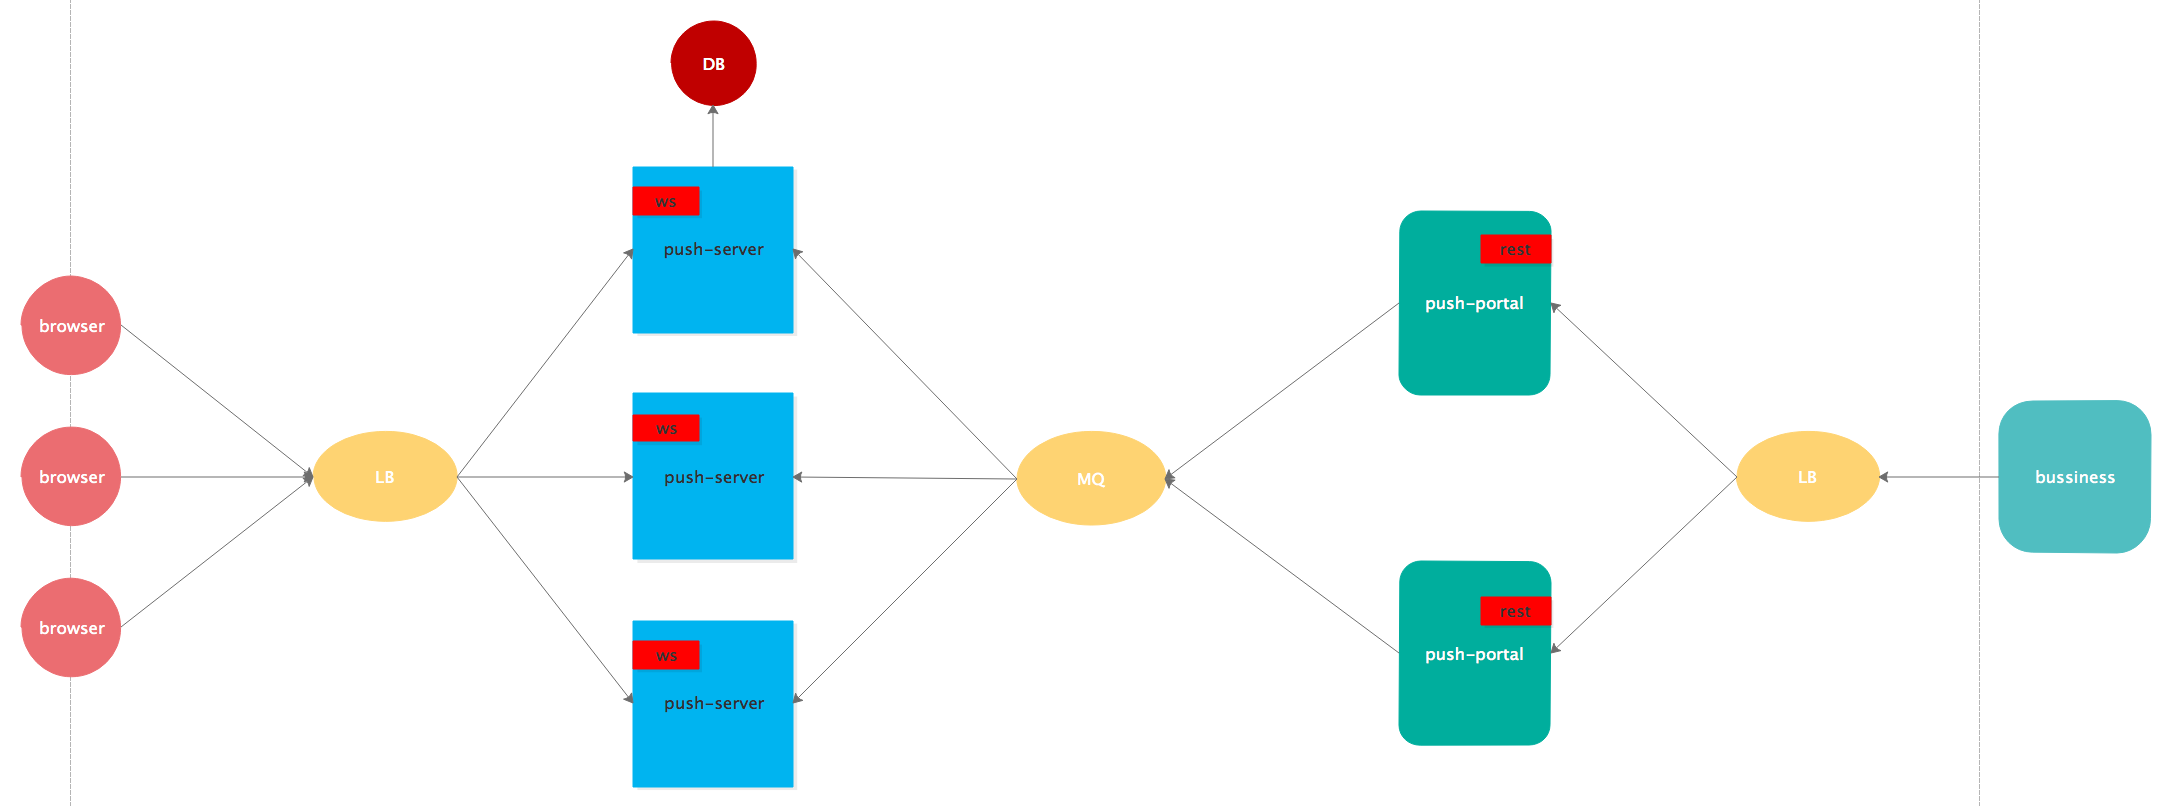
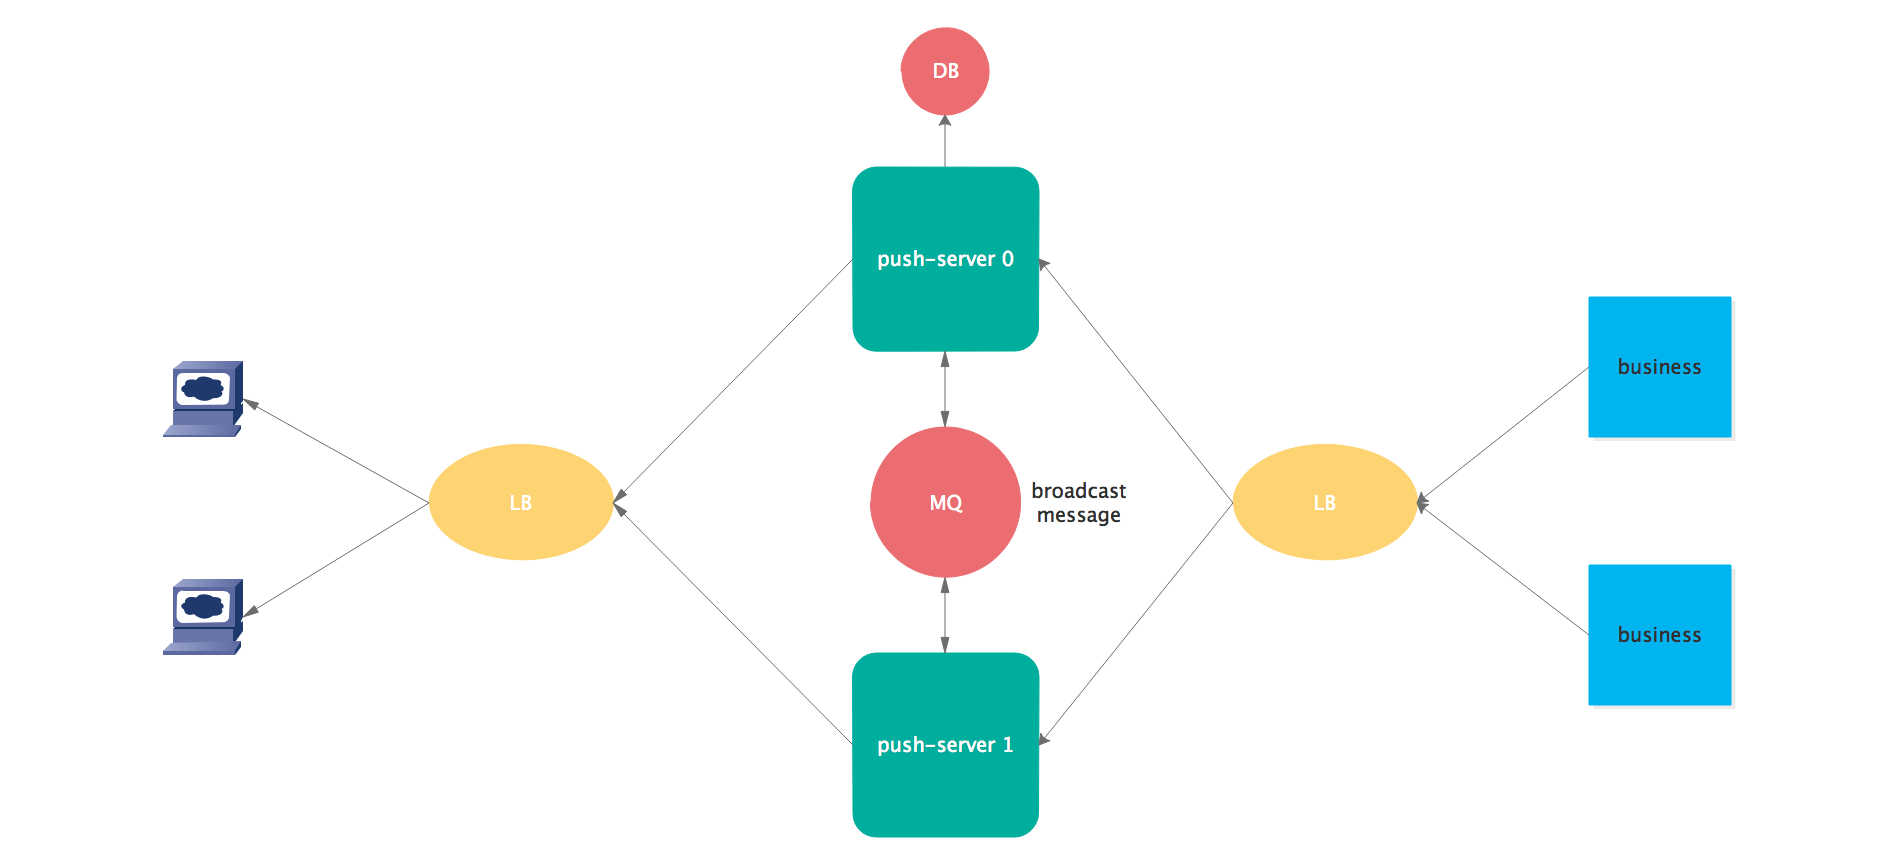
集群方案设计图

diff --git a/doc/index.html b/doc/index.html
@@ -40,7 +40,7 @@
   </div>
 </div>
 <script>
-  var ws = new WebSocket("ws://localhost:9999/ws");
+  var ws = new WebSocket("ws://192.168.25.196:8080/ws");
 
 
   ws.onerror = function (event) {

diff --git a/readme.md b/readme.md
@@ -17,7 +17,7 @@
 ## 单机版结构设计图
 ![](https://github.com/huangll99/h-push/blob/master/doc/push-design.png)
 
-## 集群方案(待实现)
+## 集群方案(地址:https://github.com/huangll99/push-cluster)
 
 ![](https://github.com/huangll99/h-push/blob/master/doc/push-cluster-flow.png)
 
